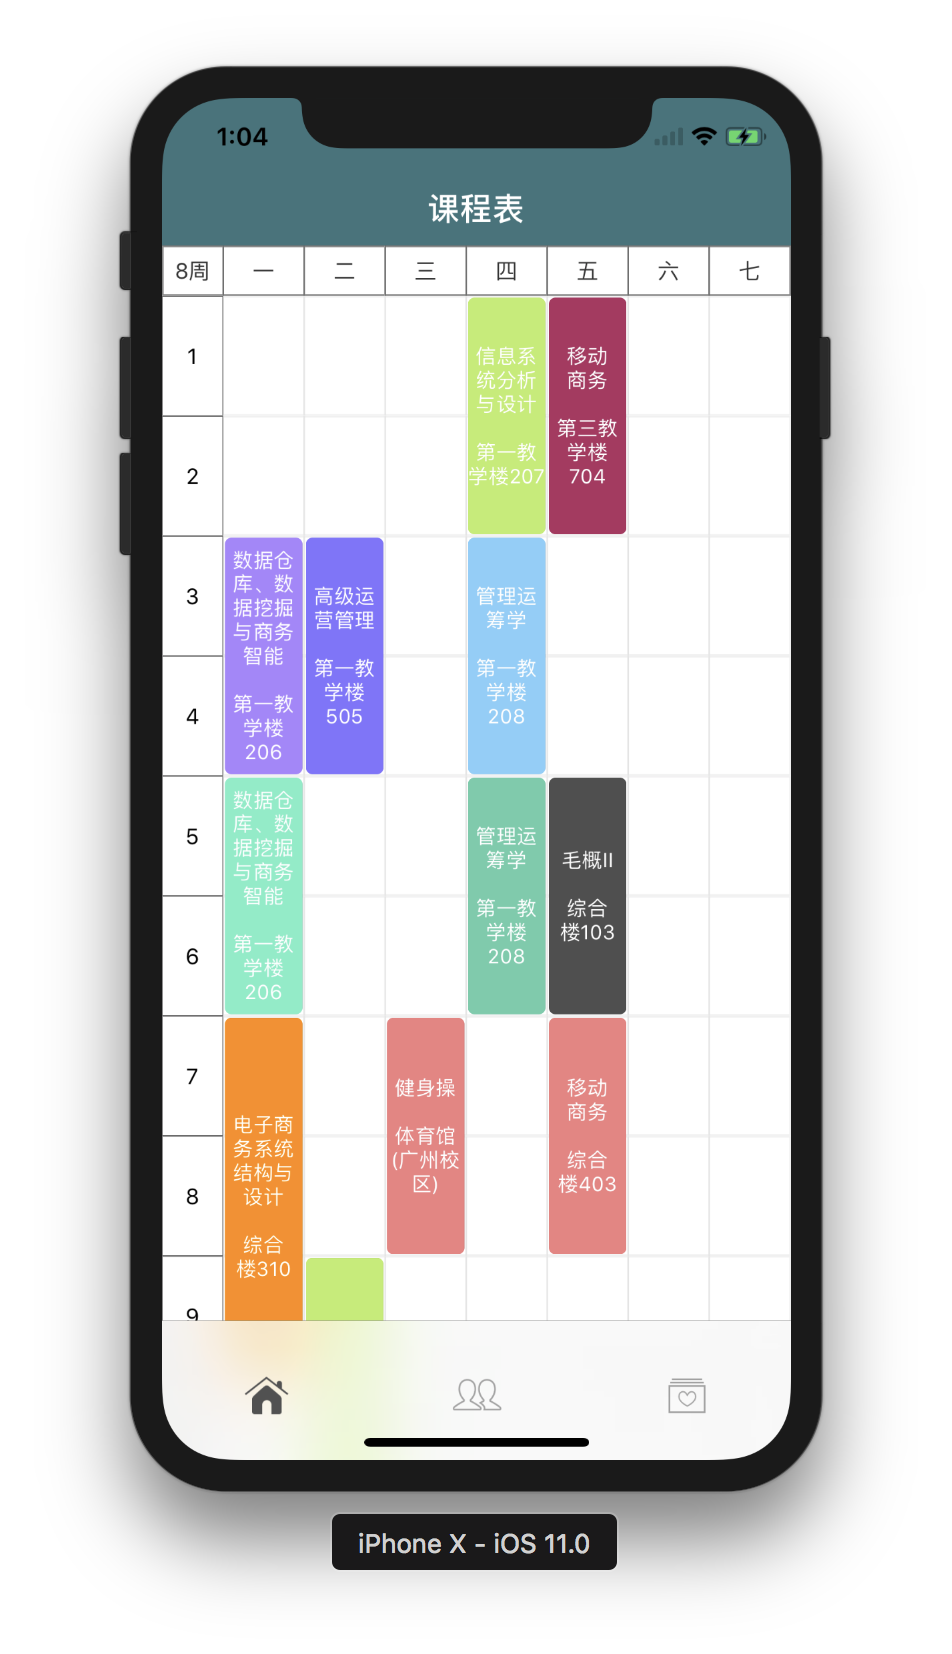
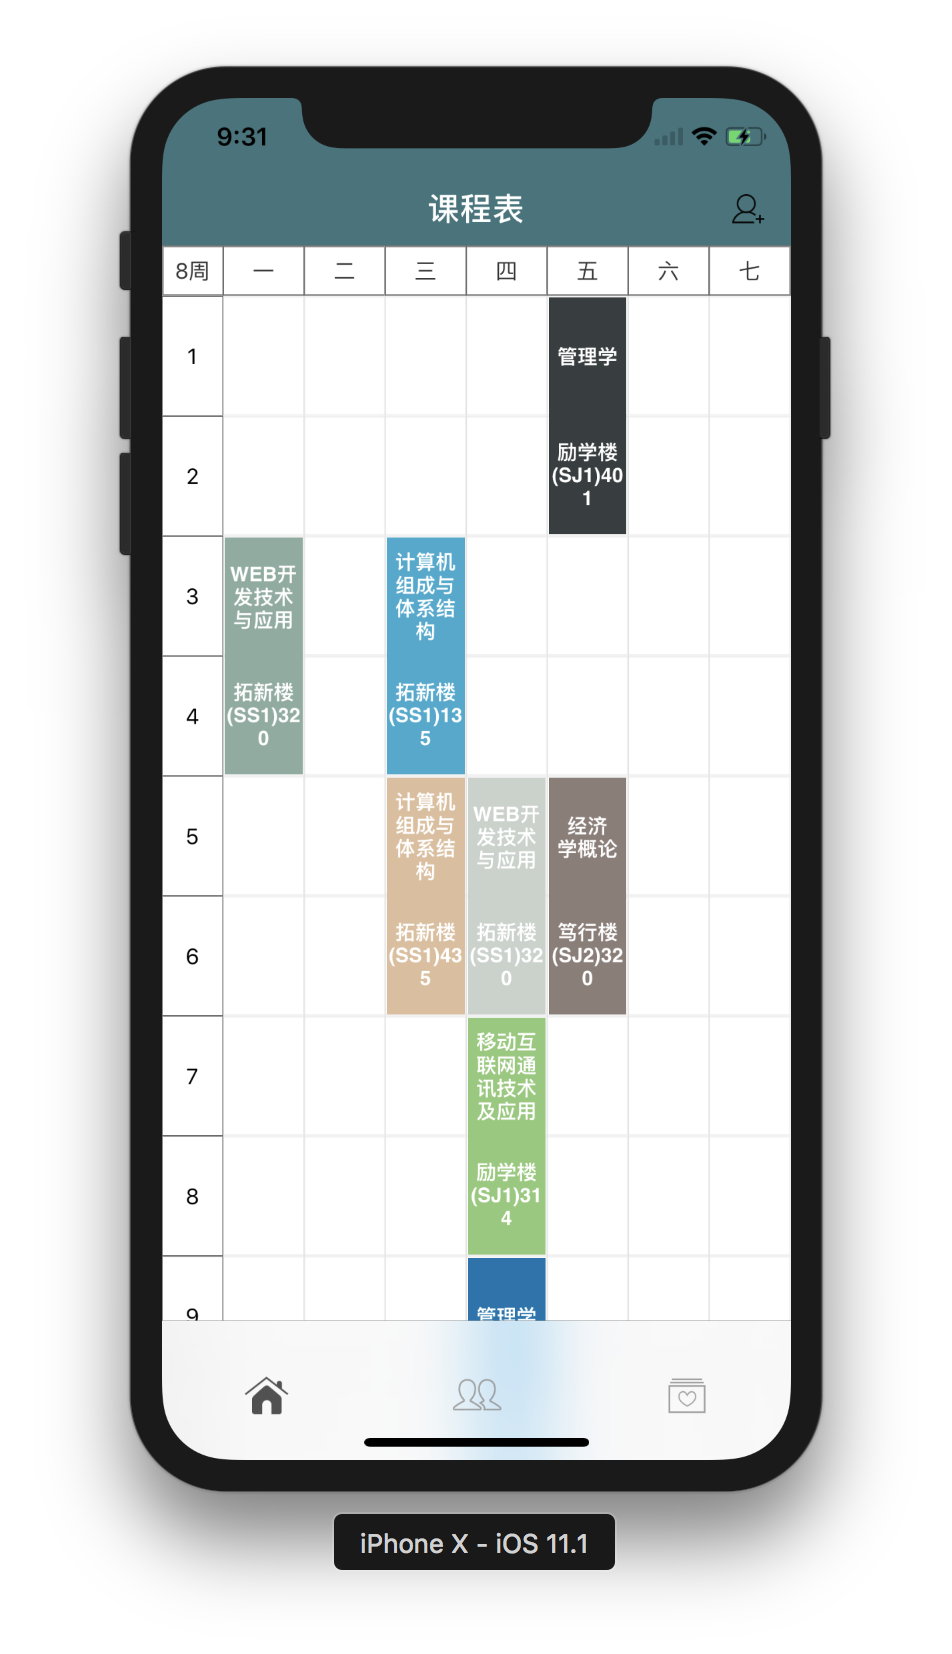
1.4.5

diff --git a/README.md b/README.md
@@ -4,7 +4,7 @@
 
 *项目进度：*
 （任务：继续增加新功能和优化已完成的功能）
-2017.11.4：**增加自动计算当前学期和计算大一到大四的八个学期的方法**
+2017.11.4：**增加自动计算当前学期和计算大一到大四的八个学期的方法,已经增加选择各个学期课程表功能**
 
 做了简单的本地缓存处理，应用NSUserDefaults存储请求的课表数据等数据。
 
@@ -23,6 +23,10 @@
 ```
 
 ![image](https://github.com/KorwinBanana/KWGdufe/blob/master/READMEImage/%E8%AF%BE%E7%A8%8B%E8%A1%A8%E9%A1%B5%E9%9D%A2%EF%BC%88%E5%BE%85%E5%AE%8C%E5%96%84%E5%85%B6%E4%BB%96%E5%8A%9F%E8%83%BD%EF%BC%89.png)
+
+**选择各学期的课程表**（点击导航栏rightBarButtonItem按钮，选择学期）
+
+![image](https://github.com/KorwinBanana/KWGdufe/blob/master/READMEImage/%E9%80%89%E6%8B%A9%E5%90%84%E4%B8%AA%E5%AD%A6%E6%9C%9F%E8%AF%BE%E7%A8%8B%E8%A1%A8.png)
 
 * 快捷功能界面（自定义tableViewCell，里面用collectionView实现每个cell中有不同的功能,通过代理方式，实现collectionViewCell点击跳转到相应页面）
 
